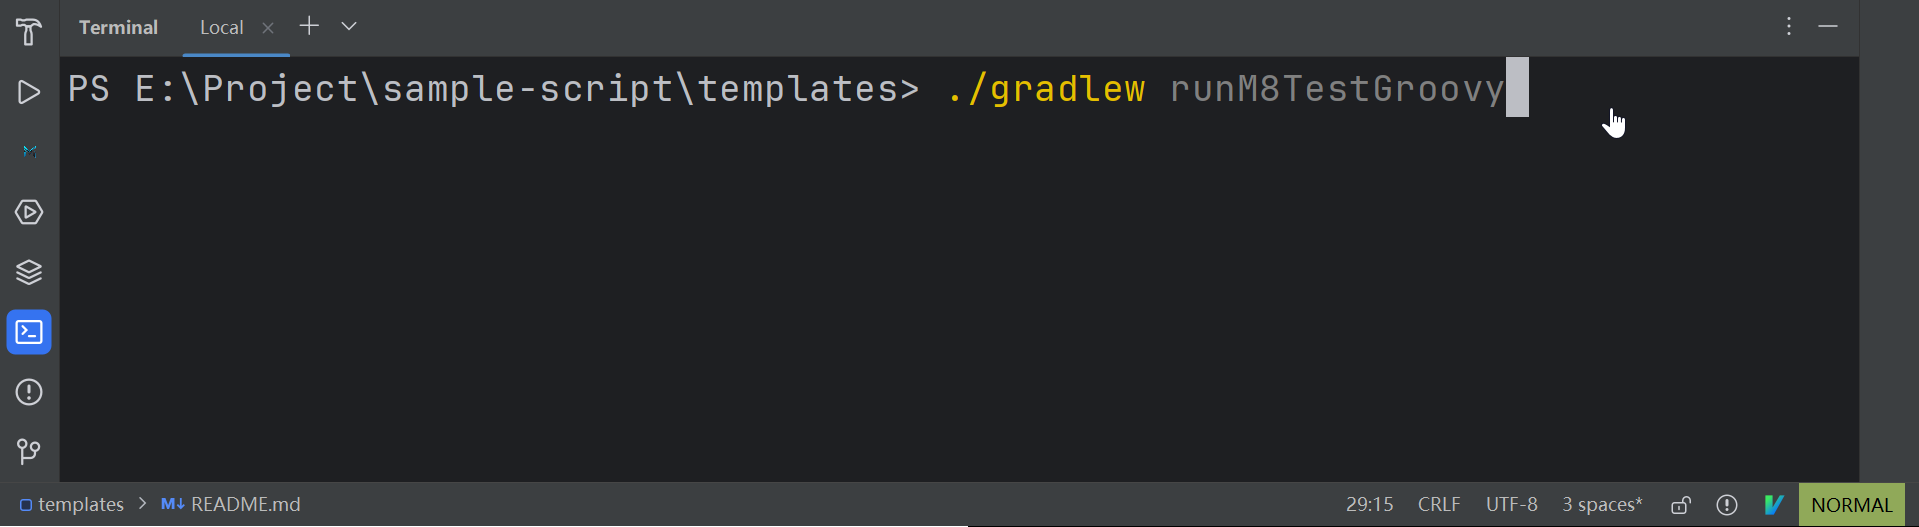
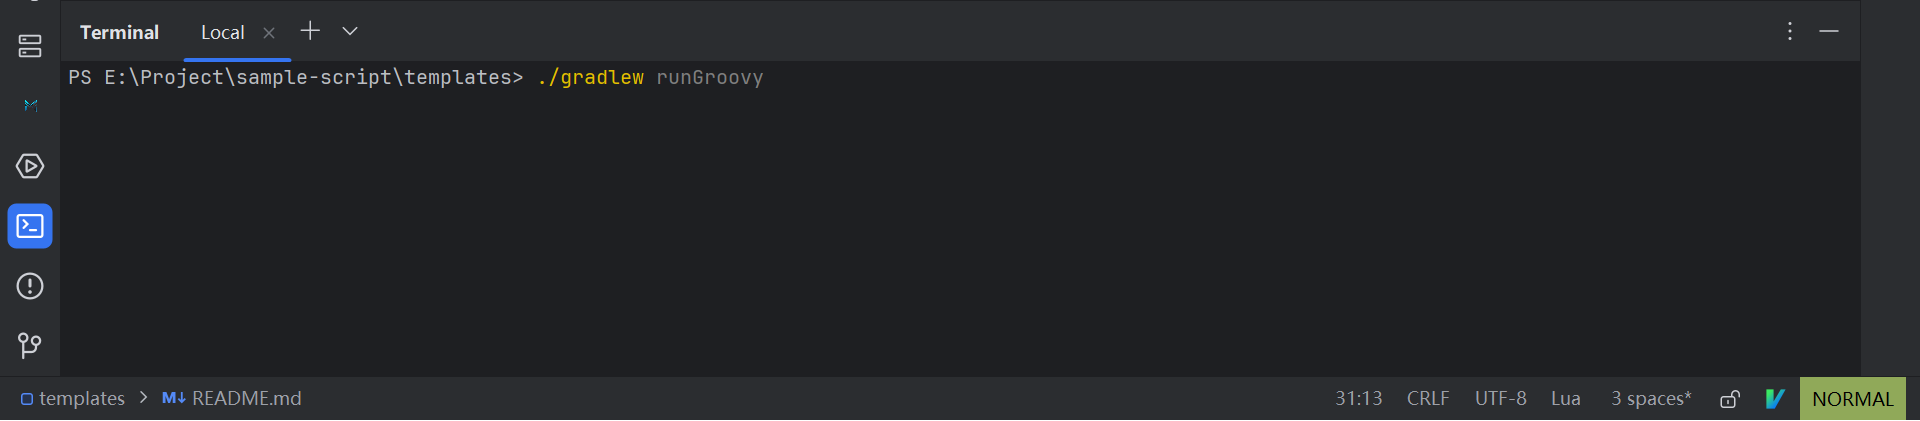
feat: 增加了UI相关代码

diff --git a/README.md b/README.md
@@ -7,15 +7,30 @@
 
 ## 📦 Gradle 任务说明
 
-1. **`buildM8TestGroovy`**  
-   构建 M8Test Groovy 脚本项目源码，但不执行脚本。构建完成后，源码位于 `build/project` 目录。
+### 任务分组
 
-2. **`generateGroovyGlobalVariables`**  
-   生成 Groovy 全局变量，提供代码提示功能。需连接安卓设备，建议在编写代码前执行一次。如果 `build.gradle.kts`
-   中的依赖组件更新，需重新执行。
+1. **`m8test-build`**  
+   M8Test构建相关任务组，包含`buildGroovy`（构建Groovy项目）、`runGroovy`（运行项目）等任务。
 
-3. **`runM8TestGroovy`**  
-   构建 M8Test Groovy 脚本项目，并将项目推送到已连接的安卓设备上运行。
+2. **`m8test-code-completion`**  
+   M8Test代码补全相关任务组，包含`generateGroovyGlobalVariables`（生成全局变量代码补全文件）等任务。
+
+3. **`m8test-developmenet-environment`**  
+   M8Test开发环境相关任务组，包含`installDevelopmentEnvironment`（安装开发环境）、`installGroovyPlugin`（安装语言插件）等任务。
+
+4. **`m8test-download`**  
+   M8Test资源下载相关任务组，包含`downloadGroovyCodeTemplate`（下载示例代码模板）、`downloadGroovyDocs`（下载文档）等任务。
+
+> 实际开发中主要关注构建任务和代码补全任务即可。
+
+### 常用任务
+
+| 任务名称                            | 任务分组                     | 功能描述                                                           |
+|---------------------------------|--------------------------|----------------------------------------------------------------|
+| `generateGroovyGlobalVariables` | `m8test-code-completion` | 生成Groovy全局变量代码补全文件，提供IDE代码提示功能。需连接安卓设备，建议编写代码前执行一次，依赖更新后需重新执行。 |
+| `buildGroovy`                   | `m8test-build`           | 构建M8Test Groovy脚本项目源码（不执行），构建结果位于`build/project`目录。            |
+| `runGroovy`                     | `m8test-build`           | 构建并将项目推送到已连接的安卓设备上运行。                                          |
+| `buildGroovyApk`                | `m8test-build`           | 将M8Test Groovy脚本项目打包成APK文件。                                    |
 
 ---
 
@@ -23,44 +38,46 @@
 
 ### 方法一：使用快捷搜索
 
-1. 双击 `Ctrl` 键，打开搜索框。
-2. 输入 `gradle 任务名`，例如 `gradle runM8TestGroovy`，然后按回车执行。
+1. 双击`Ctrl`键打开全局搜索框
+2. 输入`gradle 任务名`（如`gradle runGroovy`）
+3. 按回车执行
 
-   ![方法一示例](images/1.png)
+![方法一示例](images/1.png)
 
-### 方法二：通过 Gradle 面板
+### 方法二：通过Gradle面板
 
-1. 点击 Gradle 图标。
-2. 依次展开 `groovy` > `Tasks` > `m8test`。
-3. 双击需要执行的任务。
+1. 点击IDE右侧Gradle面板图标
+2. 依次展开`groovy` > `Tasks` > `m8test`
+3. 双击需要执行的任务
 
-   ![方法二示例](images/2.png)
+![方法二示例](images/2.png)
 
 ### 方法三：使用终端命令
 
-1. 按下快捷键 `Alt + F12` 打开终端。
-2. 输入命令 `./gradlew 任务名`，例如 `./gradlew runM8TestGroovy`，然后按回车执行。
+1. 按`Alt + F12`打开终端
+2. 输入命令`./gradlew 任务名`（如`./gradlew runGroovy`）
+3. 按回车执行
 
-   ![方法三示例](images/3.png)
+![方法三示例](images/3.png)
 
 ---
 
 ## ⚙ 配置脚本项目
 
-脚本项目的配置位于 `groovy/build.gradle.kts` 文件中。您可以根据需要修改设备的 IP、ADB 端口等参数。该文件中包含详细的代码注释，供参考。
+脚本项目配置位于`groovy/build.gradle.kts`文件，可根据需要修改设备IP、ADB端口等参数，文件内包含详细注释可供参考。
 
 ---
 
 ## 🛠 项目开发流程
 
 1. **生成全局变量**  
-   执行 `generateGroovyGlobalVariables` 任务，生成 Groovy 全局变量，提供代码提示功能。
+   执行`generateGroovyGlobalVariables`任务生成代码补全文件，提供IDE代码提示功能。
 
-2. **连接日志服务**
+2. **连接日志服务**  
+   按`Alt + T`，依次选择`M8Test` > `连接日志服务`。
 
-   按下快捷键 `Alt + T`，依次选择 `M8Test` > `连接日志服务`。
+3. **编写并运行脚本**  
+   编写代码保存后，执行`runGroovy`任务在安卓设备上运行项目（需提前开启ADB调试），运行日志可在M8Test日志面板查看。
 
-3. **编写并运行脚本**
-
-   编写代码并保存后，执行 `runM8TestGroovy` 任务，即可在安卓设备上运行脚本项目。确保安卓设备已开启 ADB 调试。运行日志可在
-   M8Test 日志面板中查看。
+4. **打包Apk**  
+   所有的脚本开发工作都完整后, 如果你需要打包成独立的apk可以执行 `buildGroovyApk` 任务。
